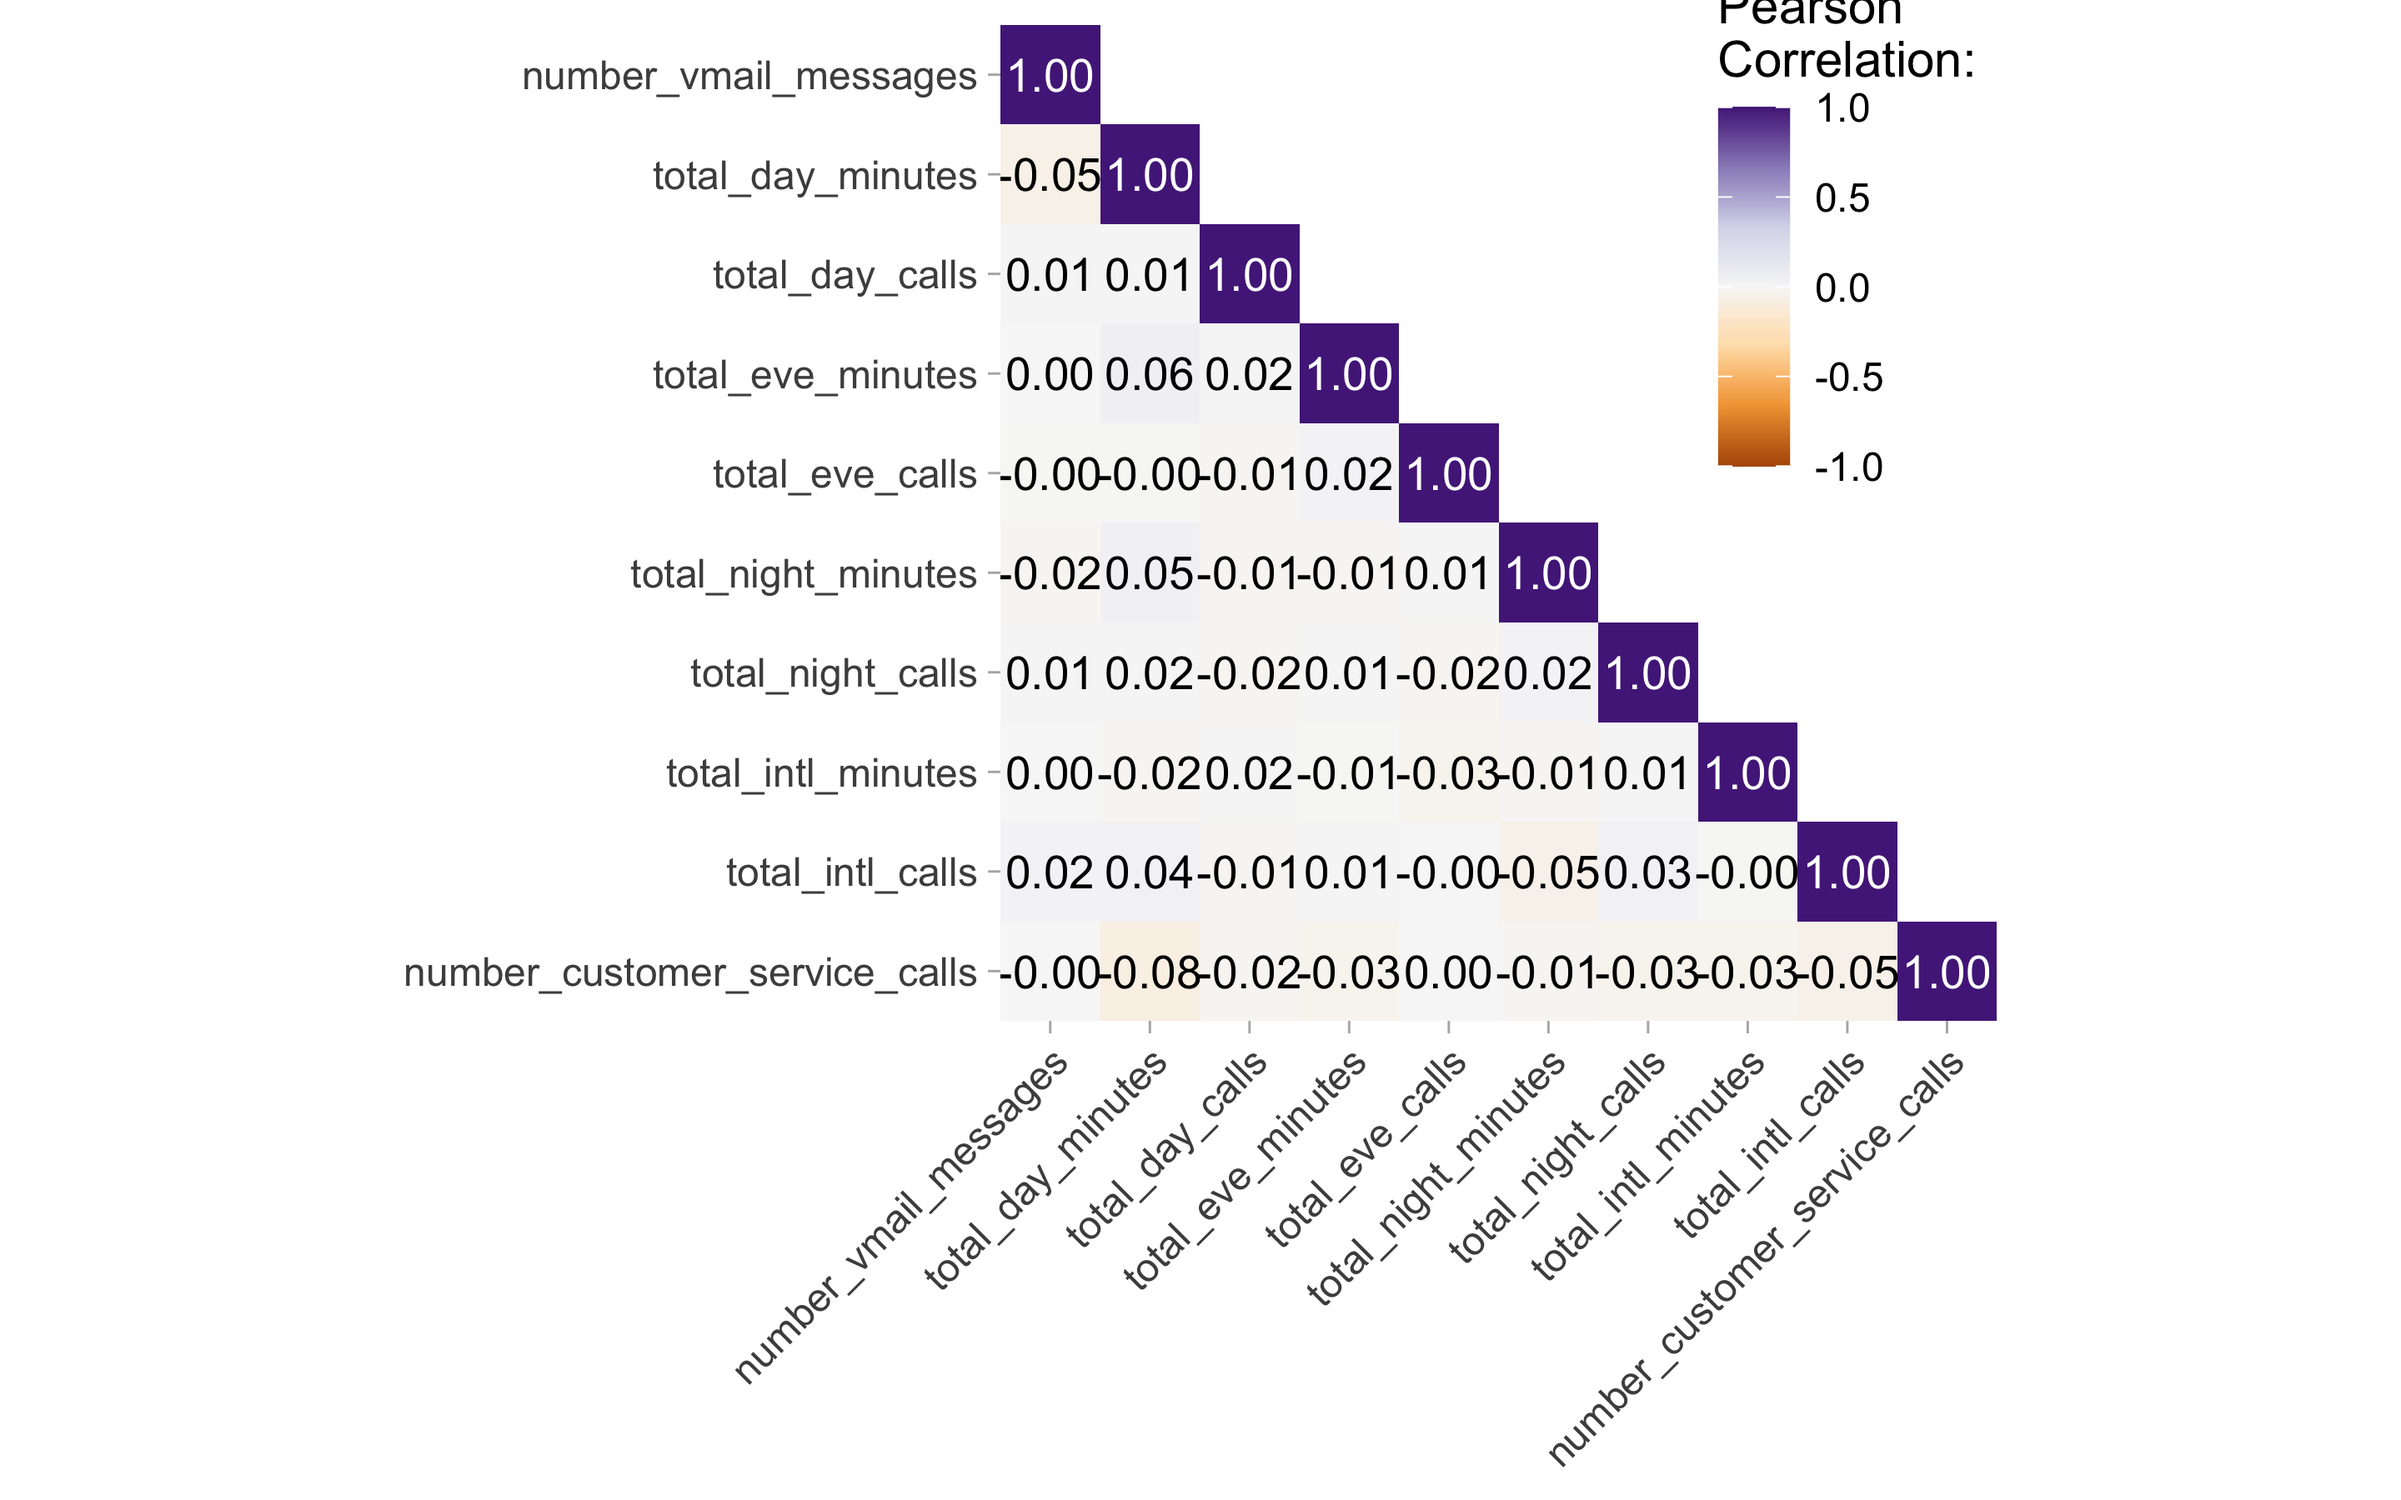
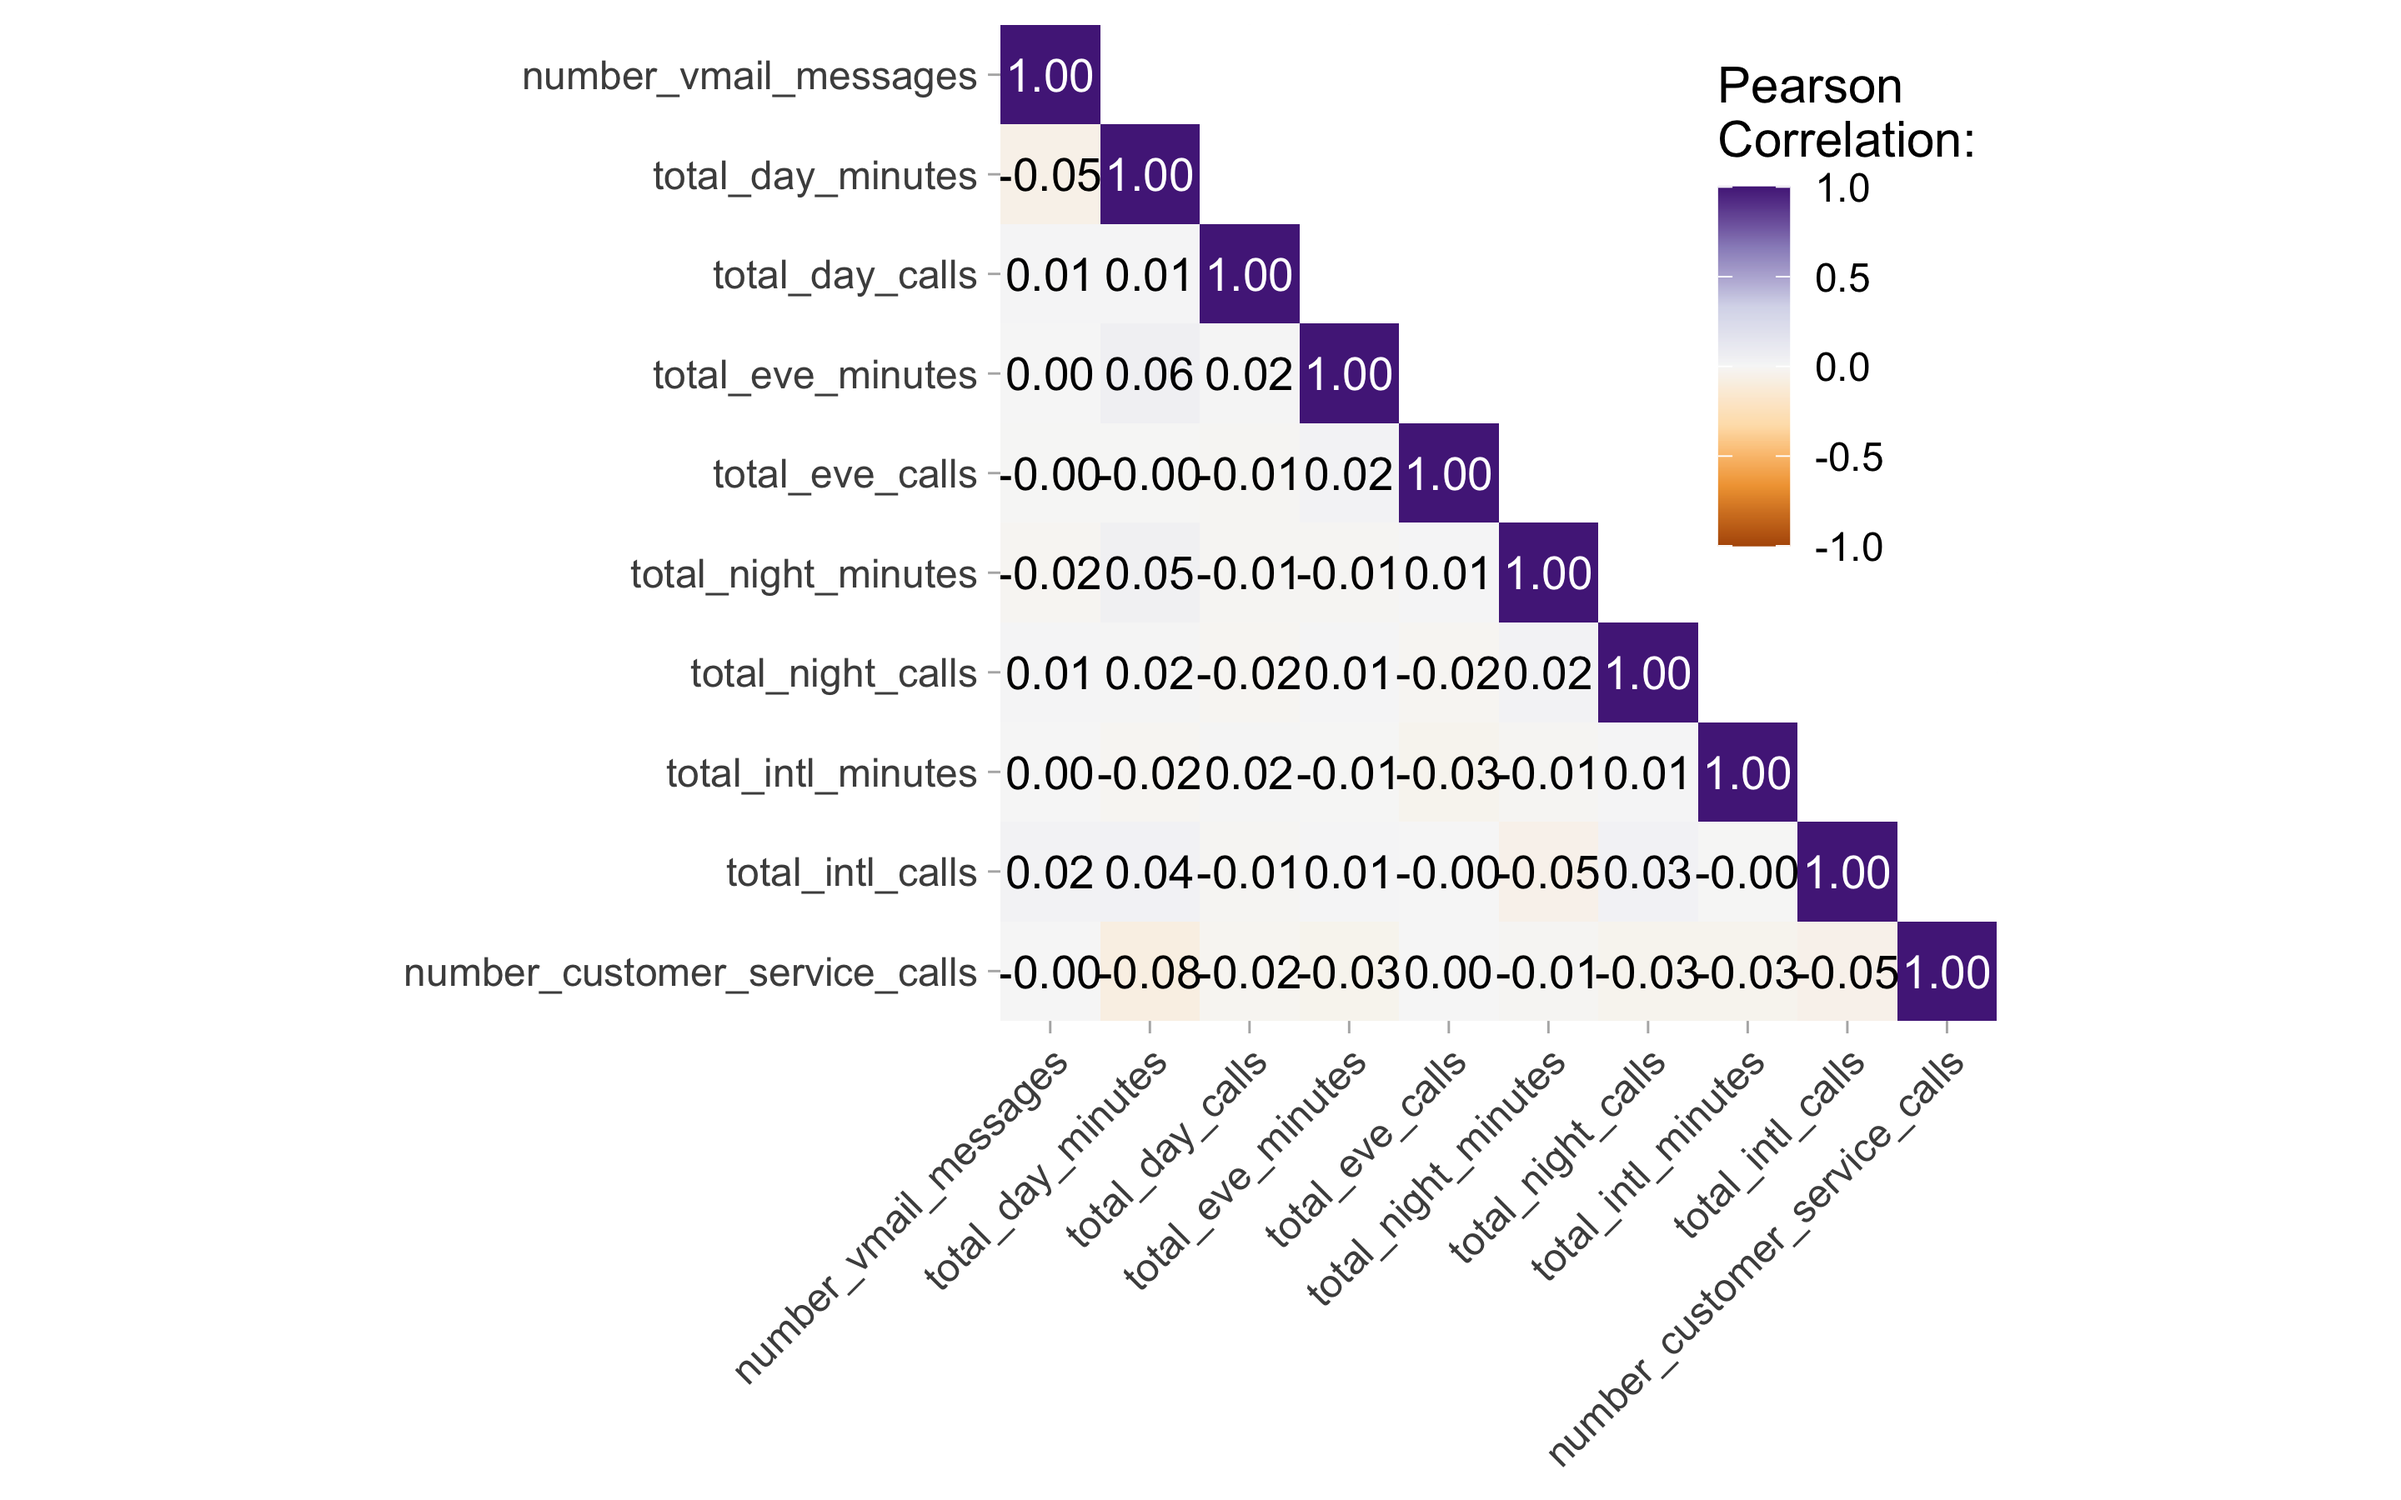
updating correlation legend position

Changed region(s): [[0.6875, 0.0, 0.8125, 0.3733]]

diff --git a/index.html b/index.html
@@ -130,7 +130,7 @@
 <div class="cell">
 
 </div>
-<p>The data in question is concerned with consumer behaviour around their mobile plan, we are particularly interested in being able to predict mobile plan cancellation. Lets get a quick overview of the data:</p>
+<p>The data in question is concerned with consumer behaviour around their mobile plan in the US, we are particularly interested in being able to predict mobile plan cancellation. Lets get a quick overview of the data:</p>
 <div class="cell" data-hash="index_cache/html/unnamed-chunk-4_85e4b9786faa992056358d12c740151a">
 <details>
 <summary>Show the code</summary>
@@ -163,7 +163,7 @@ $ number_customer_service_calls &lt;int&gt; 3, 1, 2, 0, 0, 0, 0, 6, 2, 2, 2, 4, 
 <section id="exploratory-data-analysis" class="level1">
 <h1>Exploratory Data Analysis</h1>
 <p>It would be interesting to see how the total day calls variable is distributed and whether this differs by region:</p>
-<div class="cell" data-hash="index_cache/html/unnamed-chunk-6_8477da23315b4051b7d000264c947fe0">
+<div class="cell" data-hash="index_cache/html/unnamed-chunk-6_3ad995190abfba40dd07fce042506115">
 <details>
 <summary>Show the code</summary>
 <div class="sourceCode" id="cb4"><pre class="sourceCode r cell-code code-with-copy"><code class="sourceCode r"><span id="cb4-1"><a href="#cb4-1" aria-hidden="true" tabindex="-1"></a><span class="fu">library</span>(ggridges)</span>
@@ -173,7 +173,7 @@ $ number_customer_service_calls &lt;int&gt; 3, 1, 2, 0, 0, 0, 0, 6, 2, 2, 2, 4, 
 <span id="cb4-5"><a href="#cb4-5" aria-hidden="true" tabindex="-1"></a>  <span class="fu">geom_density_ridges</span>()<span class="sc">+</span></span>
 <span id="cb4-6"><a href="#cb4-6" aria-hidden="true" tabindex="-1"></a>   <span class="fu">labs</span>(<span class="at">y=</span><span class="st">""</span>,</span>
 <span id="cb4-7"><a href="#cb4-7" aria-hidden="true" tabindex="-1"></a>       <span class="at">x=</span><span class="st">"Calls/day"</span>,</span>
-<span id="cb4-8"><a href="#cb4-8" aria-hidden="true" tabindex="-1"></a>       <span class="at">title =</span> <span class="st">"Distribution of total calls/day by US state region"</span>,</span>
+<span id="cb4-8"><a href="#cb4-8" aria-hidden="true" tabindex="-1"></a>       <span class="at">title =</span> <span class="st">"Distribution of total calls/day by region"</span>,</span>
 <span id="cb4-9"><a href="#cb4-9" aria-hidden="true" tabindex="-1"></a>       )<span class="sc">+</span></span>
 <span id="cb4-10"><a href="#cb4-10" aria-hidden="true" tabindex="-1"></a>  <span class="fu">scale_fill_brewer</span>(<span class="at">palette =</span> <span class="st">"Spectral"</span>)<span class="sc">+</span></span>
 <span id="cb4-11"><a href="#cb4-11" aria-hidden="true" tabindex="-1"></a>  <span class="fu">theme_ridges</span>()<span class="sc">+</span></span>
@@ -184,7 +184,7 @@ $ number_customer_service_calls &lt;int&gt; 3, 1, 2, 0, 0, 0, 0, 6, 2, 2, 2, 4, 
 </div>
 </div>
 <p>Multicollinearity can be explored by creating a correlation matrix between the numeric variables:</p>
-<div class="cell" data-hash="index_cache/html/unnamed-chunk-8_2aba5a0a9d99412bf2e18eab1309a960">
+<div class="cell" data-hash="index_cache/html/unnamed-chunk-8_fe1a928d66175e40b1a6cb0ce407a760">
 <details>
 <summary>Show the code</summary>
 <div class="sourceCode" id="cb5"><pre class="sourceCode r cell-code code-with-copy"><code class="sourceCode r"><span id="cb5-1"><a href="#cb5-1" aria-hidden="true" tabindex="-1"></a>corm <span class="ot">&lt;-</span> </span>
@@ -226,7 +226,7 @@ $ number_customer_service_calls &lt;int&gt; 3, 1, 2, 0, 0, 0, 0, 6, 2, 2, 2, 4, 
 <span id="cb5-37"><a href="#cb5-37" aria-hidden="true" tabindex="-1"></a>  ) <span class="sc">+</span></span>
 <span id="cb5-38"><a href="#cb5-38" aria-hidden="true" tabindex="-1"></a>  <span class="fu">labs</span>(<span class="at">x =</span> <span class="cn">NULL</span>, <span class="at">y =</span> <span class="cn">NULL</span>) <span class="sc">+</span></span>
 <span id="cb5-39"><a href="#cb5-39" aria-hidden="true" tabindex="-1"></a>  <span class="fu">theme</span>(<span class="at">panel.border =</span> <span class="fu">element_rect</span>(<span class="at">color =</span> <span class="cn">NA</span>, <span class="at">fill =</span> <span class="cn">NA</span>),</span>
-<span id="cb5-40"><a href="#cb5-40" aria-hidden="true" tabindex="-1"></a>        <span class="at">legend.position =</span> <span class="fu">c</span>(.<span class="dv">85</span>, .<span class="dv">8</span>),</span>
+<span id="cb5-40"><a href="#cb5-40" aria-hidden="true" tabindex="-1"></a>        <span class="at">legend.position =</span> <span class="fu">c</span>(.<span class="dv">85</span>, .<span class="dv">72</span>),</span>
 <span id="cb5-41"><a href="#cb5-41" aria-hidden="true" tabindex="-1"></a>        <span class="at">axis.text.x =</span> <span class="fu">element_text</span>(<span class="at">angle =</span> <span class="dv">45</span>,</span>
 <span id="cb5-42"><a href="#cb5-42" aria-hidden="true" tabindex="-1"></a>                                   <span class="at">vjust=</span><span class="dv">1</span>,</span>
 <span id="cb5-43"><a href="#cb5-43" aria-hidden="true" tabindex="-1"></a>                                   <span class="at">hjust=</span><span class="dv">1</span>))</span></code><button title="Copy to Clipboard" class="code-copy-button"><i class="bi"></i></button></pre></div>
